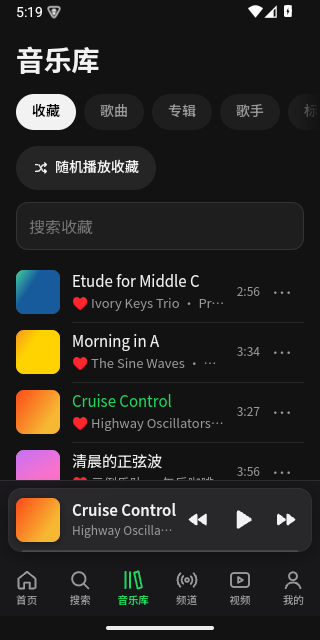
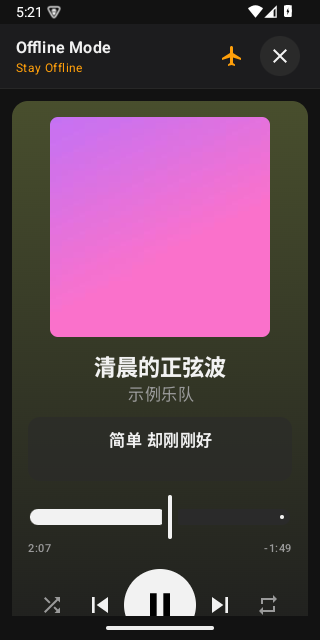
fix(android): release job hardening (environment, no daemon, strict checks), en-US-only images, wording

diff --git a/docs/superpowers/specs/android-client-design.md b/docs/superpowers/specs/android-client-design.md
@@ -118,18 +118,27 @@ pages (they come from the server), the same reliable playback.
   Actions secrets: `ANDROID_KEYSTORE_B64`, `ANDROID_KEYSTORE_PASSWORD`, `ANDROID_KEY_ALIAS`, `ANDROID_KEY_PASSWORD`.
   `app/build.gradle.kts` reads signing only from the environment (`ANDROID_KEYSTORE_FILE` plus those three); without
   `ANDROID_KEYSTORE_FILE` the release build is unsigned and never uses the debug key.
-- **Release job** (as built): the `apk` job in `release.yml` decodes the keystore to a file under `$RUNNER_TEMP`
-  (deleted when the step ends), builds `assembleRelease -PlarkVersion=<tag>`, then fails unless
-  `apksigner verify --print-certs` shows exactly the SHA-256 in `android/signing-cert.sha256` and
-  `aapt2 dump badging` shows package `io.github.aaronsuns.melarka`, the tag as versionName, X*10000+Y*100+Z as
+- **Release job** (as built): the `apk` job in `release.yml` runs in the GitHub environment `release`, where the
+  four secrets live as environment secrets (not repository secrets). It checks all four are non-empty, decodes the
+  keystore to a file under `$RUNNER_TEMP`, builds `assembleRelease --no-daemon -PlarkVersion=<tag>` (no Gradle daemon
+  keeps the passwords), removes the file (an `if: always()` step; the build step's trap too), then fails unless
+  `apksigner verify --print-certs` shows exactly one signer whose SHA-256 is the one in `android/signing-cert.sha256`
+  and `aapt2 dump badging` shows package `io.github.aaronsuns.melarka`, the tag as versionName, X*10000+Y*100+Z as
   versionCode and the label Melarka. The `release` job attaches `Melarka-X.Y.Z.apk` next to the IPA, and only after
-  the gate, the image, the IPA and the APK all succeeded. Run by hand (`workflow_dispatch`, input `dry_run`) the
-  workflow runs only the `apk` job on the version in `ios/project.yml` and keeps the APK as a workflow artifact;
-  nothing is published. The release APK was also installed on the emulator (debug build uninstalled first) and
-  reached the server screen and a demo server (plain http to `localhost` through `adb reverse`; the emulator host
-  `10.0.2.2` is debug-only).
+  the gate, the image, the IPA and the APK all succeeded. A manual run (`workflow_dispatch`, no inputs) runs only the
+  `apk` job on the version in `ios/project.yml`, keeps the APK as a workflow artifact and never publishes.
+  **Owner's one-time setup**: create the environment `release` (Settings > Environments) with deployment branches
+  and tags limited to the tag pattern `v*` and the branch `main` (so a manual run works from `main` only), then, on
+  the private Mac:
+  `gh secret set --env release ANDROID_KEYSTORE_B64 < <(base64 -i ~/melarka-release/melarka-release.jks)`, and
+  `gh secret set --env release ANDROID_KEYSTORE_PASSWORD`, `ANDROID_KEY_ALIAS` (`melarka`) and
+  `ANDROID_KEY_PASSWORD` (prompted, never on a command line), and delete any repository-level copies.
+  Verified by hand on the build Mac with the real key: the signed APK matches the fingerprint and badging. The
+  release APK was installed on the emulator (no debug build was installed, so no uninstall was needed), launched to
+  the server screen and connected to a demo server by `http://localhost:4700` through `adb reverse`, because release
+  builds refuse cleartext to the emulator host `10.0.2.2` (debug only).
 - **Store metadata** (as built): `android/fastlane/metadata/android/{en-US,zh-CN,zh-TW,sv-SE}` with title, short and
-  full description, `changelogs/<versionCode>.txt` (the next release's code) and five phone screenshots.
+  full description, `changelogs/<versionCode>.txt` (the next release's code) and five phone screenshots (under en-US only; F-Droid falls back to it for the other locales).
 - **F-Droid**: prepare fastlane metadata (`android/fastlane/metadata/android/…`: title,
   descriptions in four languages, screenshots, changelogs) and submit the merge request to
   fdroiddata after the first GitHub release works. Aim for a **reproducible build signed with our

diff --git a/CHANGELOG.md b/CHANGELOG.md
@@ -3,8 +3,7 @@
 All notable changes to Melarka are documented in this file.
 
 The format is based on [Keep a Changelog](https://keepachangelog.com/en/1.1.0/), and this project
-adheres to [Semantic Versioning](https://semver.org/spec/v2.0.0.html). The server, the web app and
-the iPhone app and the Android app share one version number.
+adheres to [Semantic Versioning](https://semver.org/spec/v2.0.0.html). The server, the web app, the iPhone app and the Android app share one version number.
 
 ## [Unreleased]
 
